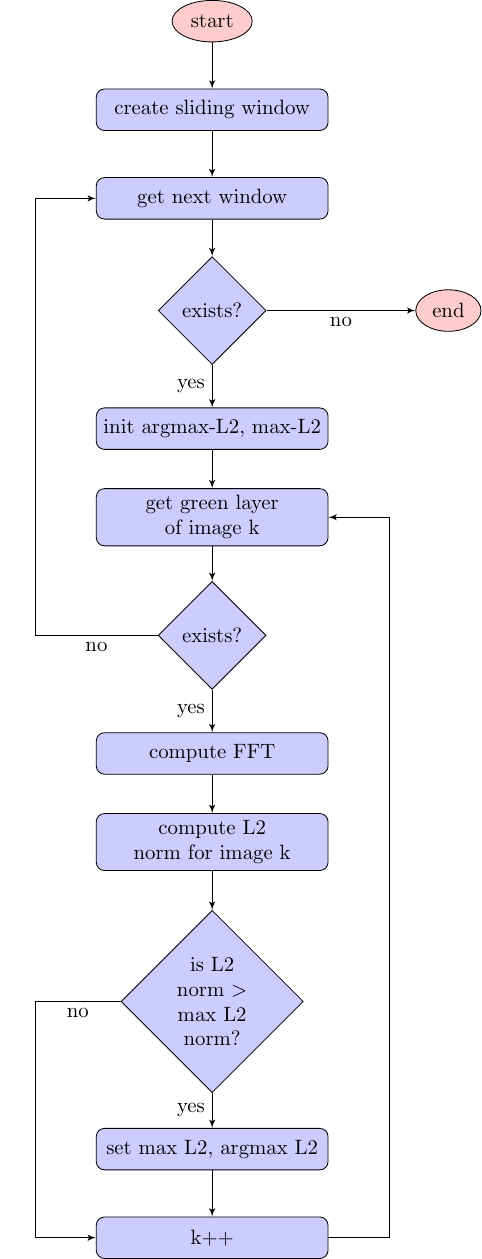
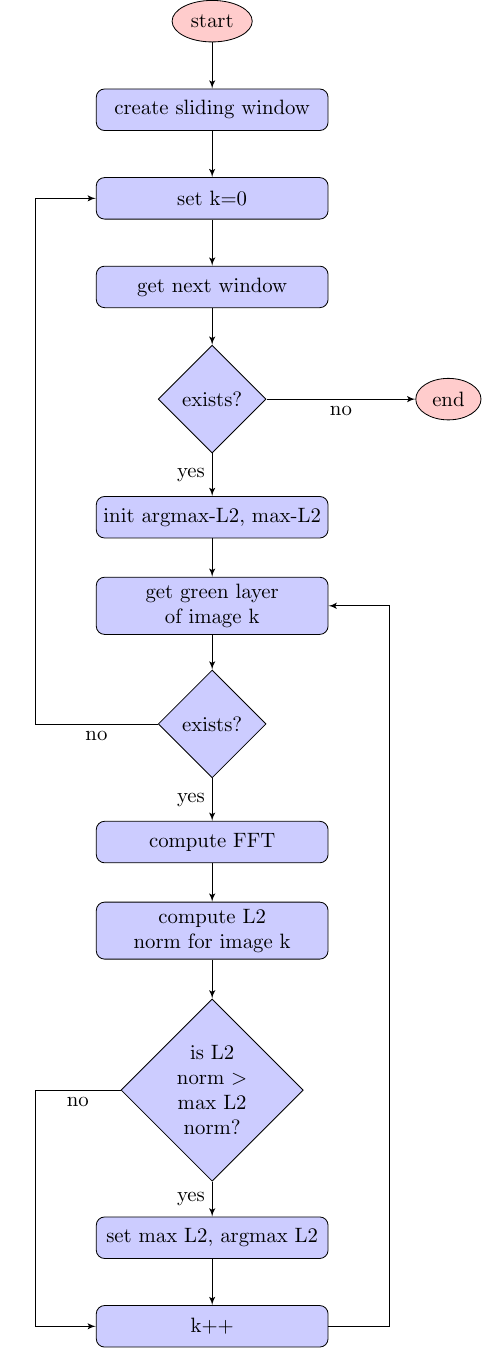
diagrams

diff --git a/documentation/diagrams/sharpest/sharpest.tex b/documentation/diagrams/sharpest/sharpest.tex
@@ -22,9 +22,10 @@
 \begin{tikzpicture}[node distance = 2cm, auto]
     \node [cloud]                       (start)         {start};
     \node [block, below of=start]       (create-window) {create sliding window};
+    \node [block, below of=create-window]        (set-k-0)       {set k=0};
     
     % For each sliding window
-    \node [block, below of=create-window]        (get-next-window)       {get next window};
+    \node [block, below of=set-k-0]        (get-next-window)       {get next window};
     \node [decision, below of=get-next-window, yshift=-0.4cm]  (exists1)   {exists?};
     \node [cloud, right of=exists1, xshift=2.5cm] (end1)         {end};
     
@@ -40,14 +41,15 @@
     
     % Draw edges
     \path [line] (start) -- (create-window);
-    \path [line] (create-window) -- (get-next-window);
+    \path [line] (create-window) -- (set-k-0);
+    \path [line] (set-k-0) -- (get-next-window);
     \path [line] (get-next-window) -- (exists1);
     \path [line] (exists1) -- node[anchor=east] {yes} (init-max-L2);
     \path [line] (exists1) -- node[anchor=north] {no} (end1);
     \path [line] (init-max-L2) -- (get-image-k);
     \path [line] (get-image-k) -- (exists2);
     \path [line] (exists2) -- node[anchor=east] {yes} (fft);
-    \path [line] (exists2) -- node {no} ++(-3.0cm,0) |- (get-next-window);
+    \path [line] (exists2) -- node {no} ++(-3.0cm,0) |- (set-k-0);
     \path [line] (fft) -- (l2norm);
     \path [line] (l2norm) -- (is-max);
     \path [line] (is-max) -- node {no} ++(-3.0cm,0) |- (inc-k);
